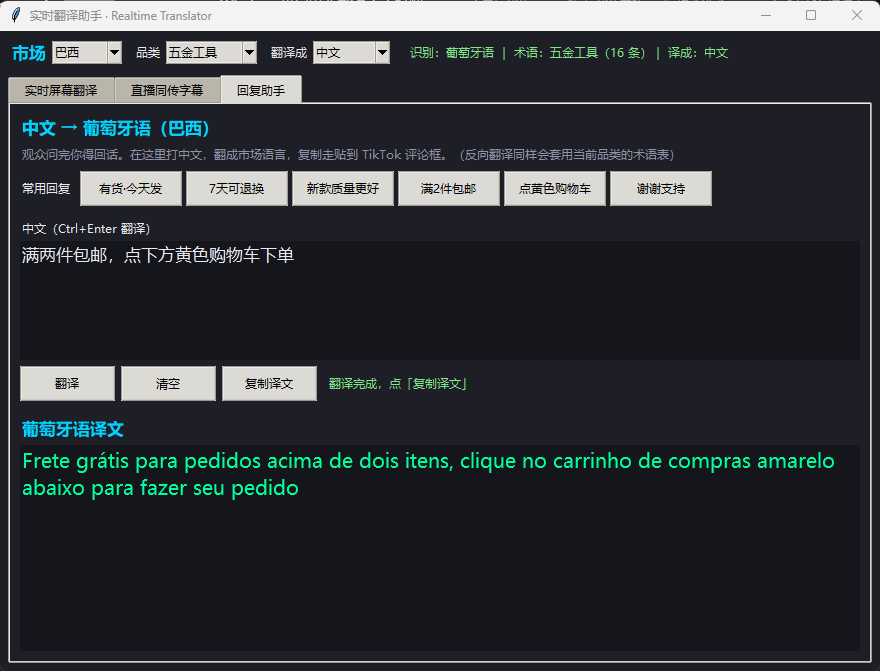
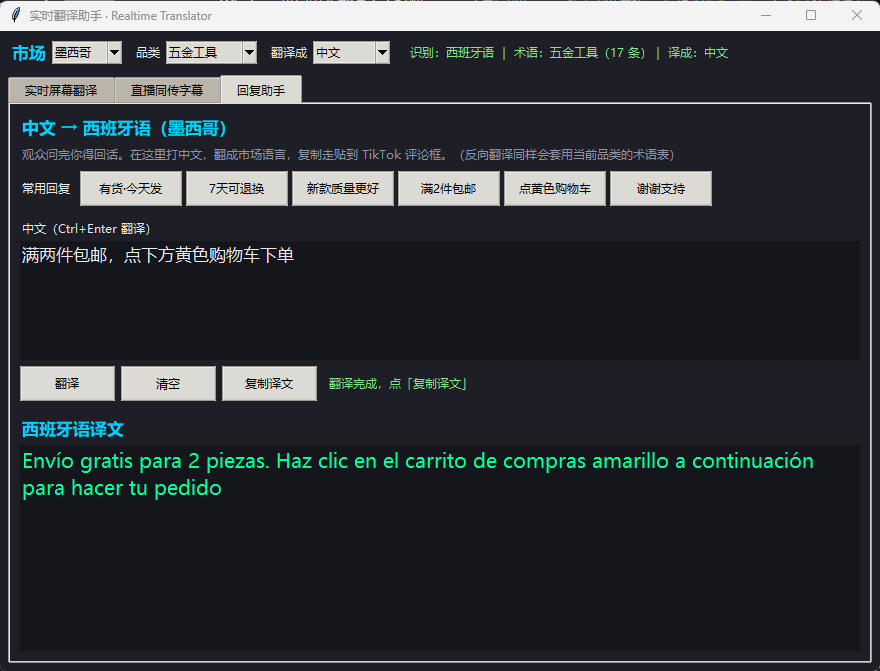
识别：补足语音前后留白（pad100->400）；断句改成可调，默认等完整句
用户反馈"翻译的字幕也看不懂"。拿 记录\直播字幕.srt（77 条）逐条反查，
根因不在翻译，在**识别出来的葡语本身就是错的**，翻译只是忠实翻译了错的东西：
  sem pessoal（应为 e aí pessoal）    -> 没有人员
  e o xili sem escova（应为 o motor sem escova）-> 和无刷 Xili
  ferra, azul, leite, gel（应为 ferro, aço, inox）-> 铁、蓝色、牛奶、凝胶
  de sabado（应为 sextavado）          -> 周六 6 号
  paposeira e fudeira（应为 parafusadeira e furadeira）-> 罂粟花和软糖
  cabra, embaixado（应为 cabo, embutido）-> 山羊、大使馆

发现两处设置问题：

一、speech_pad_ms 只有 100，faster-whisper 默认是 400
   新增 tools\bench_asr_options.py 做同音频对比实验（6 组，每组只改一个变量）。
   在一段真实录音上：
     pad100: hoje trouxe um taladro ... caja ... 无标点、整段粘连
     pad400: Hoje eu trouxe um taladro ... caixa .... 有标点、句子边界清楚
   词头不再被削（eu 回来了）、拼写变准（caja -> caixa），耗时反而从 0.62s 降到
   0.28s（留白够大时相邻语音块会合并，调用次数变少）。
   同一实验显示 beam5 无收益却更慢，故保持 beam1。

二、断句太碎：app.py 里 max_seconds = chunk*2 = 3.0，每 3 秒强制切一刀，
   且 0.35 秒的换气就判为"说完一句"，切出来的多是半句话
   （"…a sua frente, tá?"、"de matos, oito chaves"），
   每条又被单独翻译、没有上下文，中文自然读不通。
   模拟验证：主播每 1.6 秒说话 + 0.4 秒换气，20 秒内
     改前切 10 段（全是半句） -> 改后切 2 段（完整句）
   但这是个取舍（等完整句 = 出字幕更慢），所以做成界面可调：
   新增「断句静音(秒)」spinbox（0.25~1.5，默认 0.6），以及 max_seconds=max(6.0, chunk*3)。
   调小出字幕快但容易断在半句中间；调大更好懂但更慢。两项都写进 settings.json。

回归：final_check 11/11、verify_p0 21/21、verify_features 18/18、verify_e2e 5/5 无污染。
注：pad 与断句的收益需要真实直播音频再确认一遍（当前实验用的是 TTS 合成音频）。

diff --git a/tools/bench_asr_options.py b/tools/bench_asr_options.py
@@ -1,0 +1,155 @@
+# -*- coding: utf-8 -*-
+"""对同一段真实直播音频，并排比较不同识别设置的准确度。
+
+为什么要这个：识别（ASR）错了，翻译再准也没用 —— 用户反馈"字幕看不懂"，
+反查发现根因是识别出来的葡语本身就错了（parafusadeira 被听成 paposeira、
+sextavado 听成 sabado、aço inox 听成 azul leite gel）。
+光看耗时/字错率说不清哪组设置更好，得把同一段音频过的几组配置并排打出来，
+人眼一比就知道。脚本默认把"程序当前用的参数"作为基线，其余每项只改一个变量，
+这样结论可以直接搬回 asr_engine.transcribe()。
+
+用法（在项目根目录）:
+    python live_caption.py --wav 30          # 先录 30 秒到 tmp\\cap.wav（直播要在放）
+    python tools\\bench_asr_options.py       # 再跑对比
+    python tools\\bench_asr_options.py 别的录音.wav --models medium
+"""
+from __future__ import annotations
+
+import os
+import sys
+import time
+import wave
+
+import numpy as np
+
+ROOT = os.path.dirname(os.path.dirname(os.path.abspath(__file__)))
+sys.path.insert(0, os.path.join(ROOT, "libs"))
+sys.path.insert(0, ROOT)
+
+try:
+    sys.stdout.reconfigure(encoding="utf-8", errors="backslashreplace")
+except Exception:
+    pass
+
+import asr_engine          # noqa: E402
+import markets             # noqa: E402
+import translate_core as tc  # noqa: E402
+
+SAMPLE_RATE = 16000
+CATEGORY = "五金工具"
+MARKET = "巴西"
+
+
+def read_wav(path: str) -> np.ndarray:
+    with wave.open(path, "rb") as w:
+        ch, sw, fr, n = w.getnchannels(), w.getsampwidth(), w.getframerate(), w.getnframes()
+        raw = w.readframes(n)
+    if sw != 2:
+        raise SystemExit(f"只支持 16-bit wav，这个是 {sw * 8}-bit")
+    a = np.frombuffer(raw, dtype="<i2").astype("float32") / 32768.0
+    if ch > 1:
+        a = a.reshape(-1, ch).mean(axis=1)
+    if fr != SAMPLE_RATE:
+        idx = np.linspace(0, len(a) - 1, int(len(a) * SAMPLE_RATE / fr))
+        a = np.interp(idx, np.arange(len(a)), a).astype("float32")
+    return a
+
+
+def vad(min_silence=300, pad=100):
+    return {"min_silence_duration_ms": min_silence, "speech_pad_ms": pad}
+
+
+def run(model, audio, lang: str, **kw):
+    t0 = time.perf_counter()
+    segs, _ = model.transcribe(
+        audio, language=lang, vad_filter=True,
+        condition_on_previous_text=False, no_speech_threshold=0.6, **kw)
+    text = " ".join(s.text.strip() for s in segs).strip()
+    return text, time.perf_counter() - t0
+
+
+def build_configs(prompt_old: str, prompt_new: str):
+    """每组只改一个变量，方便看出是谁起作用。"""
+    return [
+        ("① 现状：beam1 + pad100 + 旧提示词",
+         dict(beam_size=1, initial_prompt=prompt_old, vad_parameters=vad(300, 100))),
+        ("② 只换提示词（按品类）",
+         dict(beam_size=1, initial_prompt=prompt_new, vad_parameters=vad(300, 100))),
+        ("③ 只补语音留白 pad100->400",
+         dict(beam_size=1, initial_prompt=prompt_old, vad_parameters=vad(300, 400))),
+        ("④ 只换 beam1->5",
+         dict(beam_size=5, initial_prompt=prompt_old, vad_parameters=vad(300, 100))),
+        ("⑤ 留白+beam5（不改提示词）",
+         dict(beam_size=5, initial_prompt=prompt_old, vad_parameters=vad(300, 400))),
+        ("⑥ 全开：新提示词+beam5+pad400",
+         dict(beam_size=5, initial_prompt=prompt_new, vad_parameters=vad(300, 400))),
+    ]
+
+
+def main():
+    args = list(sys.argv[1:])
+    models = ["medium"]
+    if "--models" in args:
+        i = args.index("--models")
+        models = args[i + 1].split(",")
+        del args[i:i + 2]
+    wav = args[0] if args else os.path.join(ROOT, "tmp", "cap.wav")
+    if not os.path.exists(wav):
+        raise SystemExit(f"找不到音频 {wav}\n先录一段：python live_caption.py --wav 30")
+
+    audio = read_wav(wav)
+    dur = len(audio) / SAMPLE_RATE
+    peak = float(np.abs(audio).max())
+    rms = float(np.sqrt((audio ** 2).mean()))
+    print("=" * 78)
+    print(f"音频: {wav}")
+    print(f"时长 {dur:.1f}s ｜ 峰值 {peak:.3f} ｜ RMS {rms:.4f}")
+    if peak < 0.005:
+        print("⚠ 这段音频几乎全是静音 —— 直播没在放？换个时间再录。")
+        return 1
+    print("=" * 78)
+
+    m = markets.get_market(MARKET)
+    lang = m["whisper"]
+    prompt_old = m["asr_prompt"]
+    prompt_new = markets.get_asr_prompt(CATEGORY, lang)
+    print(f"旧提示词 {len(prompt_old)} 字符（四个品类混合）")
+    print(f"新提示词 {len(prompt_new)} 字符（只当前品类 + 直播通用词）")
+    tc.set_engine("api")
+
+    summary = []
+    for size in models:
+        try:
+            model = asr_engine.get_model(size)
+        except Exception as e:
+            print(f"\n[{size}] 模型加载失败: {e}")
+            continue
+        for label, kw in build_configs(prompt_old, prompt_new):
+            try:
+                text, dt = run(model, audio, lang, **kw)
+            except Exception as e:
+                print(f"\n[{size} {label}] 出错: {e}")
+                continue
+            zh = tc.translate(text, m["locale"], "zh-CN") if text else None
+            summary.append((size, label, text, zh or "", dt))
+            print(f"\n{'─' * 78}")
+            print(f"[{size}] {label}   耗时 {dt:.2f}s（{dt / dur:.3f}x 实时）")
+            print(f"  葡语: {text if text else '（空）'}")
+            print(f"  中文: {zh if zh else '（无）'}")
+
+    print("\n" + "=" * 78)
+    print("汇总（重点看：专有名词有没有听对；中文读不读得通）")
+    print("=" * 78)
+    for size, label, text, zh, dt in summary:
+        print(f"\n● [{size}] {label}   {dt:.2f}s")
+        print(f"  葡: {text[:130] if text else '（空）'}")
+        print(f"  中: {zh[:130]}")
+    print("\n对照要点：")
+    print("  · parafusadeira / furadeira / broca / soquete / sextavado 有没有听对")
+    print("  · 有没有凭空多出主播没说的词（提示词过长会带偏解码）")
+    print("  · 句首有没有被削掉（pad 太小会丢词头，如 parafusadeira -> usadeira）")
+    return 0
+
+
+if __name__ == "__main__":
+    sys.exit(main())

diff --git a/app.py b/app.py
@@ -61,7 +61,8 @@ ENGINE_MODES = {
 # 记住上次的选择（含引擎、市场、品类、目标语言、模型、框选区域等）
 SETTINGS_FILE = os.path.join(ROOT, "settings.json")
 SETTINGS_KEYS = ("market", "category", "target", "model", "engine",
-                 "interval", "font", "topmost", "clickthrough", "region")
+                 "interval", "font", "topmost", "clickthrough", "region",
+                 "chunk", "pause")
 
 # 「回复助手」的常用回复。中文说法是**调过的** —— 有些中文读法会让引擎译歪，
 # 例如「支持七天无理由退换」会译成 "Apoie sete dias..."（把"支持"当"拥护"），
@@ -180,6 +181,10 @@ class App:
                 self.var_engine.set(s["engine"])
             if isinstance(s.get("interval"), (int, float)):
                 self.var_interval.set(max(0.2, min(5.0, float(s["interval"]))))
+            if isinstance(s.get("chunk"), (int, float)):
+                self.var_chunk.set(max(0.8, min(6.0, float(s["chunk"]))))
+            if isinstance(s.get("pause"), (int, float)):
+                self.var_pause.set(max(0.25, min(1.5, float(s["pause"]))))
             if isinstance(s.get("font"), int):
                 self.var_font.set(max(10, min(60, int(s["font"]))))
             if isinstance(s.get("topmost"), bool):
@@ -202,6 +207,8 @@ class App:
             "model": self.var_model.get(),
             "engine": self.var_engine.get(),
             "interval": float(self.var_interval.get()),
+            "chunk": float(self.var_chunk.get()),
+            "pause": float(self.var_pause.get()),
             "font": int(self.var_font.get()),
             "topmost": bool(self.var_top.get()),
             "clickthrough": bool(self.var_clickthrough.get()),
@@ -439,6 +446,12 @@ class App:
         ttk.Label(bar2, text="每句最短(秒)").pack(side="left", padx=(14, 4))
         self.var_chunk = tk.DoubleVar(value=1.5)
         ttk.Spinbox(bar2, from_=0.8, to=6.0, increment=0.1, width=5, textvariable=self.var_chunk).pack(side="left")
+        # 断句静音：连续安静多久才算"这句说完了"。调小 = 出字幕快但容易断在半句话中间；
+        # 调大 = 等完整句，字幕更好懂但更慢。0.6 是"不切 0.4 秒换气"的默认值。
+        ttk.Label(bar2, text="断句静音(秒)").pack(side="left", padx=(14, 4))
+        self.var_pause = tk.DoubleVar(value=0.6)
+        ttk.Spinbox(bar2, from_=0.25, to=1.5, increment=0.05, width=5,
+                    textvariable=self.var_pause).pack(side="left")
         ttk.Label(bar2, text="翻译引擎").pack(side="left", padx=(14, 4))
         self.var_engine = tk.StringVar(value=self._default_engine())
         cb = ttk.Combobox(bar2, textvariable=self.var_engine,
@@ -717,11 +730,19 @@ class App:
             self.live_running = False
             return
 
-        # 每段最短时长由界面控制；停顿 0.35 秒即认为一句说完
+        # 每段最短/断句静音由界面控制（"每句最短(秒)"、"断句静音(秒)"）。
+        #
+        # 这里原来是 max_seconds = max(3.0, chunk*2) = 3.0、silence_seconds = 0.35，
+        # 结果不管主播有没有说完，每 3 秒就被强切一刀，0.35 秒的换气也算"这句完了" ——
+        # 真实字幕里大量"半句话"（"…a sua frente, tá?"、"de matos, oito chaves"），
+        # 每条又被单独送去翻译，没有上下文，中文自然读不通。
+        # 现在：最长 6 秒，断句静音默认 0.6 秒（不切 0.4 秒的换气），能等到完整句。
+        chunk = float(self.var_chunk.get())
+        pause = float(self.var_pause.get())
         seg = asr_engine.StreamingSegmenter(
-            max_seconds=max(3.0, float(self.var_chunk.get()) * 2.0),
-            min_seconds=float(self.var_chunk.get()),
-            silence_seconds=0.35,
+            max_seconds=max(6.0, chunk * 3.0),
+            min_seconds=chunk,
+            silence_seconds=pause,
             overlap_seconds=0.25,
         )
         while self.live_running:

diff --git a/asr_engine.py b/asr_engine.py
@@ -128,7 +128,13 @@ def transcribe(audio: np.ndarray, language: str = "pt", size: str = "small",
         language=language or None,
         beam_size=beam_size,
         vad_filter=True,
-        vad_parameters={"min_silence_duration_ms": 300, "speech_pad_ms": 100},
+        # speech_pad_ms 原来是 100（比 faster-whisper 默认 400 小得多），会在切句时
+        # 削掉词头 —— 真实字幕里 parafusadeira 被听成 usadeira / paposeira、
+        # "Hoje eu trouxe" 丢成 "hoje trouxe"、caixa 拼成 caja、标点全丢，
+        # 都是同一段音频的对比实验里 100 -> 400 之后一起好转的（详见
+        # tools\bench_asr_options.py）。耗时反而从 0.62s 降到 0.28s：留白够大时
+        # 相邻语音块会合并，调用次数变少。
+        vad_parameters={"min_silence_duration_ms": 300, "speech_pad_ms": 400},
         condition_on_previous_text=False,
         initial_prompt=(_asr_prompt or None) if use_prompt else None,
         no_speech_threshold=0.6,
